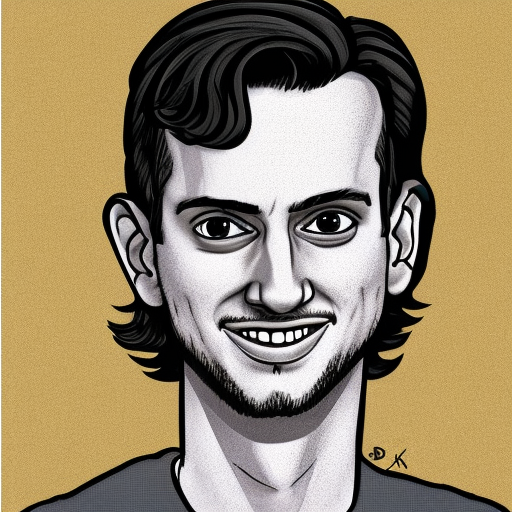
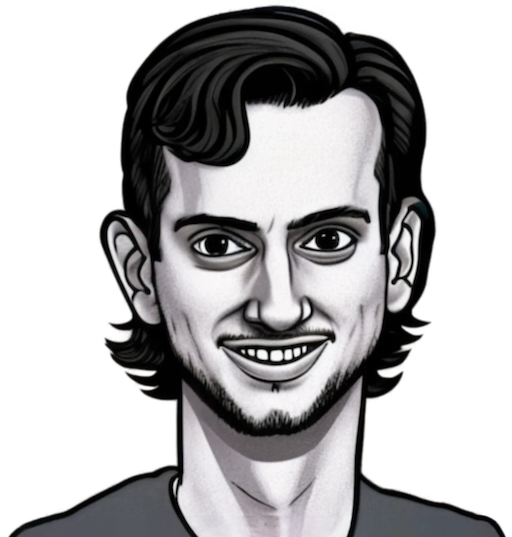
fix About image

diff --git a/app/components/about/about.module.css b/app/components/about/about.module.css
@@ -4,6 +4,7 @@
 	flex-wrap: wrap;
 	justify-content: space-between;
 	padding-left: 3rem;
+	padding-right: 2rem;
 }
 
 .aboutTitle {
@@ -26,12 +27,20 @@
 	flex: 0 0 50%;
   }
 
-.aboutImage {
-	
+.aboutTextContainer{
+	flex: 0 0 35%;
+	display: flex;
+	flex-direction: column;
 }
 
 .aboutText {
-	flex: 0 0 35%;
+	align-self: flex-end;
+	margin-top: 5rem;
+  background-color: var(--bg-secondary-color);
+  width: 150%;
+  z-index: 1;
+  padding: 2rem;
+  border-radius: 8px;
 }
 
 @media only screen and (max-width: 1200px) {
@@ -47,8 +56,12 @@
 	.aboutImage{
 		margin: 0 auto 1rem auto;
 	}
-	.aboutText{
+	.aboutTextContainer{
 		flex: 0 0 100%;
+	}
+	.aboutText{
+		width: 100%;
+		margin-top: 1rem;
 	}
 }
 
@@ -60,9 +73,9 @@
 	.aboutImage{
 		margin: 0 auto 1rem auto;
 		width: 350px;
-		height: 402px;
+		height: 367px;
 	}
-	.aboutText{
+	.aboutTextContainer{
 		flex: 0 0 100%;
 	}
 }
@@ -84,7 +97,7 @@
 	.aboutImage{
 		margin: 0 auto 1rem auto;
 	}
-	.aboutText{
+	.aboutTextContainer{
 		flex: 0 0 100%;
 		width: 100%;
 	}
@@ -94,6 +107,6 @@
 	.aboutImage{
 		margin: 0 auto 1rem auto;
 		width: 200px;
-		height: 230px;
+		height: 210px;
 	}
 }

diff --git a/app/components/about/About.tsx b/app/components/about/About.tsx
@@ -54,14 +54,15 @@ function About() {
           <Image
             className={styles.aboutImage}
             src={
-              currentTheme === "light" ? "/aboutLight.png" : "/aboutDark.png"
+              "/about.png"
             }
             alt="test"
             width={512}
-            height={589}
+            height={537}
           />
         </div>
-        <div className={styles.aboutText}>
+        <div className={styles.aboutTextContainer}>
+          <div className={styles.aboutText}>
           <p>
             I'm Ryan, a passionate software developer with a keen eye for
             creating seamless and innovative digital experiences. My journey in
@@ -80,6 +81,7 @@ function About() {
             with diverse interests and technical expertise, let's connect and
             explore exciting projects together.
           </p>
+          </div>
         </div>
       </motion.div>
     </section>

diff --git a/app/components/footer/footer.tsx b/app/components/footer/footer.tsx
@@ -36,7 +36,7 @@ function Footer() {
 			variants={containerVariant}
 			transition={{ duration: 1, delay: 0.1}}
 		>
-			<Link href='' className={styles.footerLink + " " + monospace.className}>Designed & Built by <span className={styles.name}>Ryan Kadlick</span>.</Link>
+			<Link href="https://github.com/rkadlick" className={styles.footerLink + " " + monospace.className}>Designed & Built by <span className={styles.name}>Ryan Kadlick</span>.</Link>
 			<ul className={styles.iconList}>
 				<li>
 					<Link href="https://github.com/rkadlick" target='_blank'><FontAwesomeIcon className={styles.iconListIcon} icon={faGithub} /></Link>
